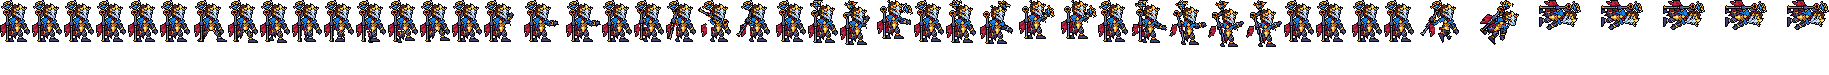
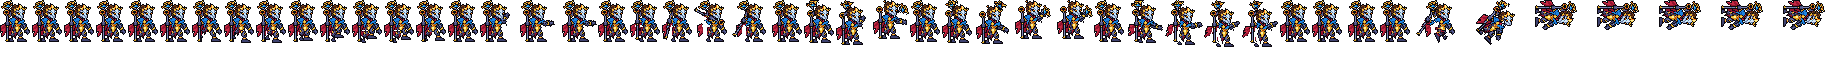
Viktor: run = league_gwen's kick cycle (no crab slide), R's staff upright (Codex's -10/-15 degree turn undone)

Changed region(s): [[0.0312, 0.0, 0.9682, 0.6133]]

diff --git a/tools/art/fix_viktor_strips.py b/tools/art/fix_viktor_strips.py
@@ -15,11 +15,18 @@ image-right leg with the big foot (the near one, darkened and swapped in front a
 cycle slid the planted foot forward and the lifted one back, then jumped both back (the legs' offsets read from its
 frames: -8..+6 and +8..-6). The run is rebuilt from the design: the body as Codex's idle (its bob kept: up a row in
 frames 2, 3, 6, 7), the far leg (image left, rig/near_leg) drawn first and the body over it (the cape and the staff in
-front of it), the near leg (image right, rig/far_leg) last, both in the design's own colours; RUN gives each leg's
-offset (dx, lift) per frame: the planted foot slides back, the lifted one comes forward, LEG_AMP columns either way, so
-the feet swap front and back; a leg's rows shear from the hip (the top HIP_SHARE of the offset) to the foot (all of it).
+front of it), the near leg (image right, rig/far_leg) last, both in the design's own colours; each leg
+follows CYCLE (league_gwen's run, rig_gwen.bent: knee and ankle columns from the hip, rows lifted - the planted foot
+slides back, the lifted one is kicked up and brought forward; the other leg half a cycle later). The first rebuild slid
+the feet 6 columns either way and swapped them: 「走路和螃蟹一样？」.
+Fix 3 (the user at R's frames: 「这里的法杖歪修了吗？」): Codex turned the near arm with the staff -10 / -15 degrees in R's
+frames 2-4 (nearest-neighbour, about the shoulder STAFF_TURN_CENTRE - found by matching its pixels exactly), and the
+one-square shaft came out in uneven steps; League holds the staff upright in R. Those pixels are taken out, the
+part is put back unturned with the same shift (the shaft's kink fixed), and what neither covers takes its neighbours'
+commonest colour (or stays clear).
 """
 import json
+import math
 import os
 import shutil
 import sys
@@ -36,10 +43,14 @@ CODEX = os.path.join(REPO, "assets", "source", "viktor", "codex_strips")
 NATIVE = os.path.join(REPO, "assets", "source", "native")
 RIG = os.path.join(CODEX, "rig")
 PIVOT = (64, 88)                 # the design's standing point on its 128x128 canvas
-LEG_AMP, HIP_SHARE = 6, 0.4
-# per frame: (near dx, near lift), (far dx, far lift); body dy (Codex's bob)
-RUN = [((6, 0), (-6, 0), 0), ((3, 0), (-3, 1), -1), ((0, 0), (0, 2), -1), ((-3, 0), (3, 1), 0),
-       ((-6, 0), (6, 0), 0), ((-3, 1), (3, 0), -1), ((0, 2), (0, 0), -1), ((3, 1), (-3, 0), 0)]
+LEG_TOP, KNEE_ROW, BOOT_ROW, SOLES = 88, 93, 96, 99
+# one leg's cycle (league_gwen's run, rig_gwen.CYCLE): (knee columns, ankle columns from the hip, + = forward = image
+# right; rows lifted): contact, loading, mid-stance, toe-off, kick, kick, passing, reach; the other leg half a cycle
+# later. The first rebuild slid the feet 6 columns either way: 「走路和螃蟹一样？」
+CYCLE = [(1, 2, 0), (0, 0, 0), (0, -1, 0), (-1, -2, 1), (-1, -3, 4), (0, -2, 4), (1, 0, 3), (1, 2, 1)]
+BOB = [0, -1, -1, 0, 0, -1, -1, 0]   # Codex's bob
+STAFF_TURN_CENTRE = (61.0, 80.0)   # canvas coordinates of the design
+UPRIGHT = {"ult"}                  # strips whose turned staff goes upright
 TAGS = ["idle", "run", "attack", "skill", "skill2", "skill2_e", "ult", "hit", "dead"]
 Z = 8
 
@@ -89,14 +100,22 @@ def fix(strip, piece):
     return hits
 
 
-def leg(canvas, part, dx, lift):
-    """Draw the leg (its pixels on the design canvas) sheared from the hip: row r of the leg moves dx x (HIP_SHARE +
-    (1 - HIP_SHARE) x depth) columns and the whole leg `lift` rows up."""
-    ys, xs = np.nonzero(part[..., 3] > 0)
-    top, bot = ys.min(), ys.max()
-    for y, x in zip(ys, xs):
-        k = HIP_SHARE + (1 - HIP_SHARE) * (y - top) / max(1, bot - top)
-        canvas[y - lift, x + int(round(dx * k))] = part[y, x]
+def bent(part, knee, ankle, lift):
+    """The leg's own rows moved whole (rig_gwen.bent): row by row along hip -> knee -> ankle, the foot rows at the
+    ankle, all lifted."""
+    out = np.zeros_like(part)
+    for y in range(LEG_TOP, SOLES + 1):
+        if y <= KNEE_ROW:
+            dx = knee * (y - LEG_TOP) / (KNEE_ROW - LEG_TOP)
+        elif y < BOOT_ROW:
+            dx = knee + (ankle - knee) * (y - KNEE_ROW) / (BOOT_ROW - KNEE_ROW)
+        else:
+            dx = ankle
+        dx = int(np.floor(dx + 0.5))
+        row = np.roll(part[y], dx, axis=0)
+        m = row[:, 3] > 0
+        out[y - lift][m] = row[m]
+    return out
 
 
 def run_frames(design):
@@ -105,13 +124,14 @@ def run_frames(design):
     body = design.copy()
     body[(near[..., 3] > 0) | (far[..., 3] > 0)] = 0
     out = []
-    for (ndx, nl), (fdx, fl), bob in RUN:
-        c = np.zeros_like(design)
-        leg(c, far, fdx, fl)
-        b = np.roll(body, bob, axis=0)
+    for k in range(8):
+        c = bent(far, *CYCLE[(k + 4) % 8])
+        b = np.roll(body, BOB[k], axis=0)
         m = b[..., 3] > 0
         c[m] = b[m]
-        leg(c, near, ndx, nl)
+        n = bent(near, *CYCLE[k])
+        m = n[..., 3] > 0
+        c[m] = n[m]
         out.append(c)
     return out
 
@@ -128,6 +148,70 @@ def place_run(strip, cells, frames):
         strip[cy + py - PIVOT[1] + ys, cx + px - PIVOT[0] + xs] = f[ys, xs]
 
 
+def turned(part, ang, centre):
+    """Codex's rotation: each target pixel samples the part at R(-a)(t - c) + c, nearest."""
+    a = math.radians(ang)
+    cx, cy = centre
+    ty, tx = np.mgrid[0:128, 0:128]
+    sx = np.floor(np.cos(a) * (tx - cx) + np.sin(a) * (ty - cy) + cx + 0.5).astype(int)
+    sy = np.floor(-np.sin(a) * (tx - cx) + np.cos(a) * (ty - cy) + cy + 0.5).astype(int)
+    ok = (sx >= 0) & (sx < 128) & (sy >= 0) & (sy < 128)
+    out = part[sy.clip(0, 127), sx.clip(0, 127)].copy()
+    out[~ok] = 0
+    return out
+
+
+def kinked_part(part):
+    """The rig's near arm and staff with design_viktor's kink fix (step 1b) on its shaft."""
+    c = part[D.Y0:D.Y0 + D.H, D.X0:D.X0 + D.W].copy()
+    D.kink(c)
+    out = part.copy()
+    out[D.Y0:D.Y0 + D.H, D.X0:D.X0 + D.W] = c
+    return out
+
+
+def upright(strip, tag, manifest):
+    part = np.array(Image.open(D.lp(os.path.join(RIG, "near_arm_staff_1x.png"))).convert("RGBA"))
+    straight = kinked_part(part)
+    cw, ch = manifest["cell_1x"]
+    cols = strip.shape[1] // cw
+    n = 0
+    for i, f in enumerate(manifest["animations"][tag]["frames"]):
+        rig = f["rig"]
+        ang = rig["near_arm_staff_angle_deg"]
+        if not ang:
+            continue
+        cx, cy = (i % cols) * cw, (i // cols) * ch
+        px, py = f["pivot_cell_1x"]
+        ox = cx + px - PIVOT[0] + rig["whole_shift"][0] + rig["near_arm_staff_shift"][0]
+        oy = cy + py - PIVOT[1] + rig["whole_shift"][1] + rig["near_arm_staff_shift"][1]
+        old = turned(part, ang, STAFF_TURN_CENTRE)
+        ys, xs = np.nonzero(old[..., 3] > 0)
+        hole = np.zeros(strip.shape[:2], bool)
+        for y, x in zip(ys + oy, xs + ox):
+            hole[y, x] = True
+        for (y, x), p in zip(zip(ys + oy, xs + ox), old[ys, xs]):
+            if np.array_equal(strip[y, x], p):
+                strip[y, x] = 0
+        ys, xs = np.nonzero(straight[..., 3] > 0)
+        strip[ys + oy, xs + ox] = straight[ys, xs]
+        hole[ys + oy, xs + ox] = False
+        hole &= strip[..., 3] == 0
+        for _ in range(3):           # the uncovered squares: their neighbours' commonest colour, else clear
+            fill = []
+            for y, x in zip(*np.nonzero(hole)):
+                nb = [tuple(strip[y + dy, x + dx]) for dy, dx in ((1, 0), (-1, 0), (0, 1), (0, -1))
+                      if not hole[y + dy, x + dx]]
+                op = [q for q in nb if q[3]]
+                if len(op) >= 3:
+                    fill.append((y, x, max(sorted(set(op)), key=op.count)))
+            for y, x, c in fill:
+                strip[y, x] = c
+                hole[y, x] = False
+        n += 1
+    return n
+
+
 def main():
     piece = old_piece()
     for tag in TAGS:
@@ -140,6 +224,10 @@ def main():
         # the rebuilt run comes from the fixed design: its shaft matches the old piece too (the column left behind takes
         # the same cape colour), and a second pass would move it again
         n = 0 if tag == "run" else fix(one, piece)
+        if tag in UPRIGHT:
+            with open(os.path.join(CODEX, "manifest.json"), encoding="utf-8") as f:
+                n3 = upright(one, tag, json.load(f))
+            print(f"{tag:9s} staff upright in {n3} frame(s)")
         Image.fromarray(np.repeat(np.repeat(one, Z, 0), Z, 1)).save(D.lp(os.path.join(NATIVE, f"viktor_{tag}.png")))
         print(f"{tag:9s} shaft fixed in {n} frame(s)")
     shutil.copyfile(os.path.join(CODEX, "viktor_cells.json"), os.path.join(NATIVE, "viktor_cells.json"))
